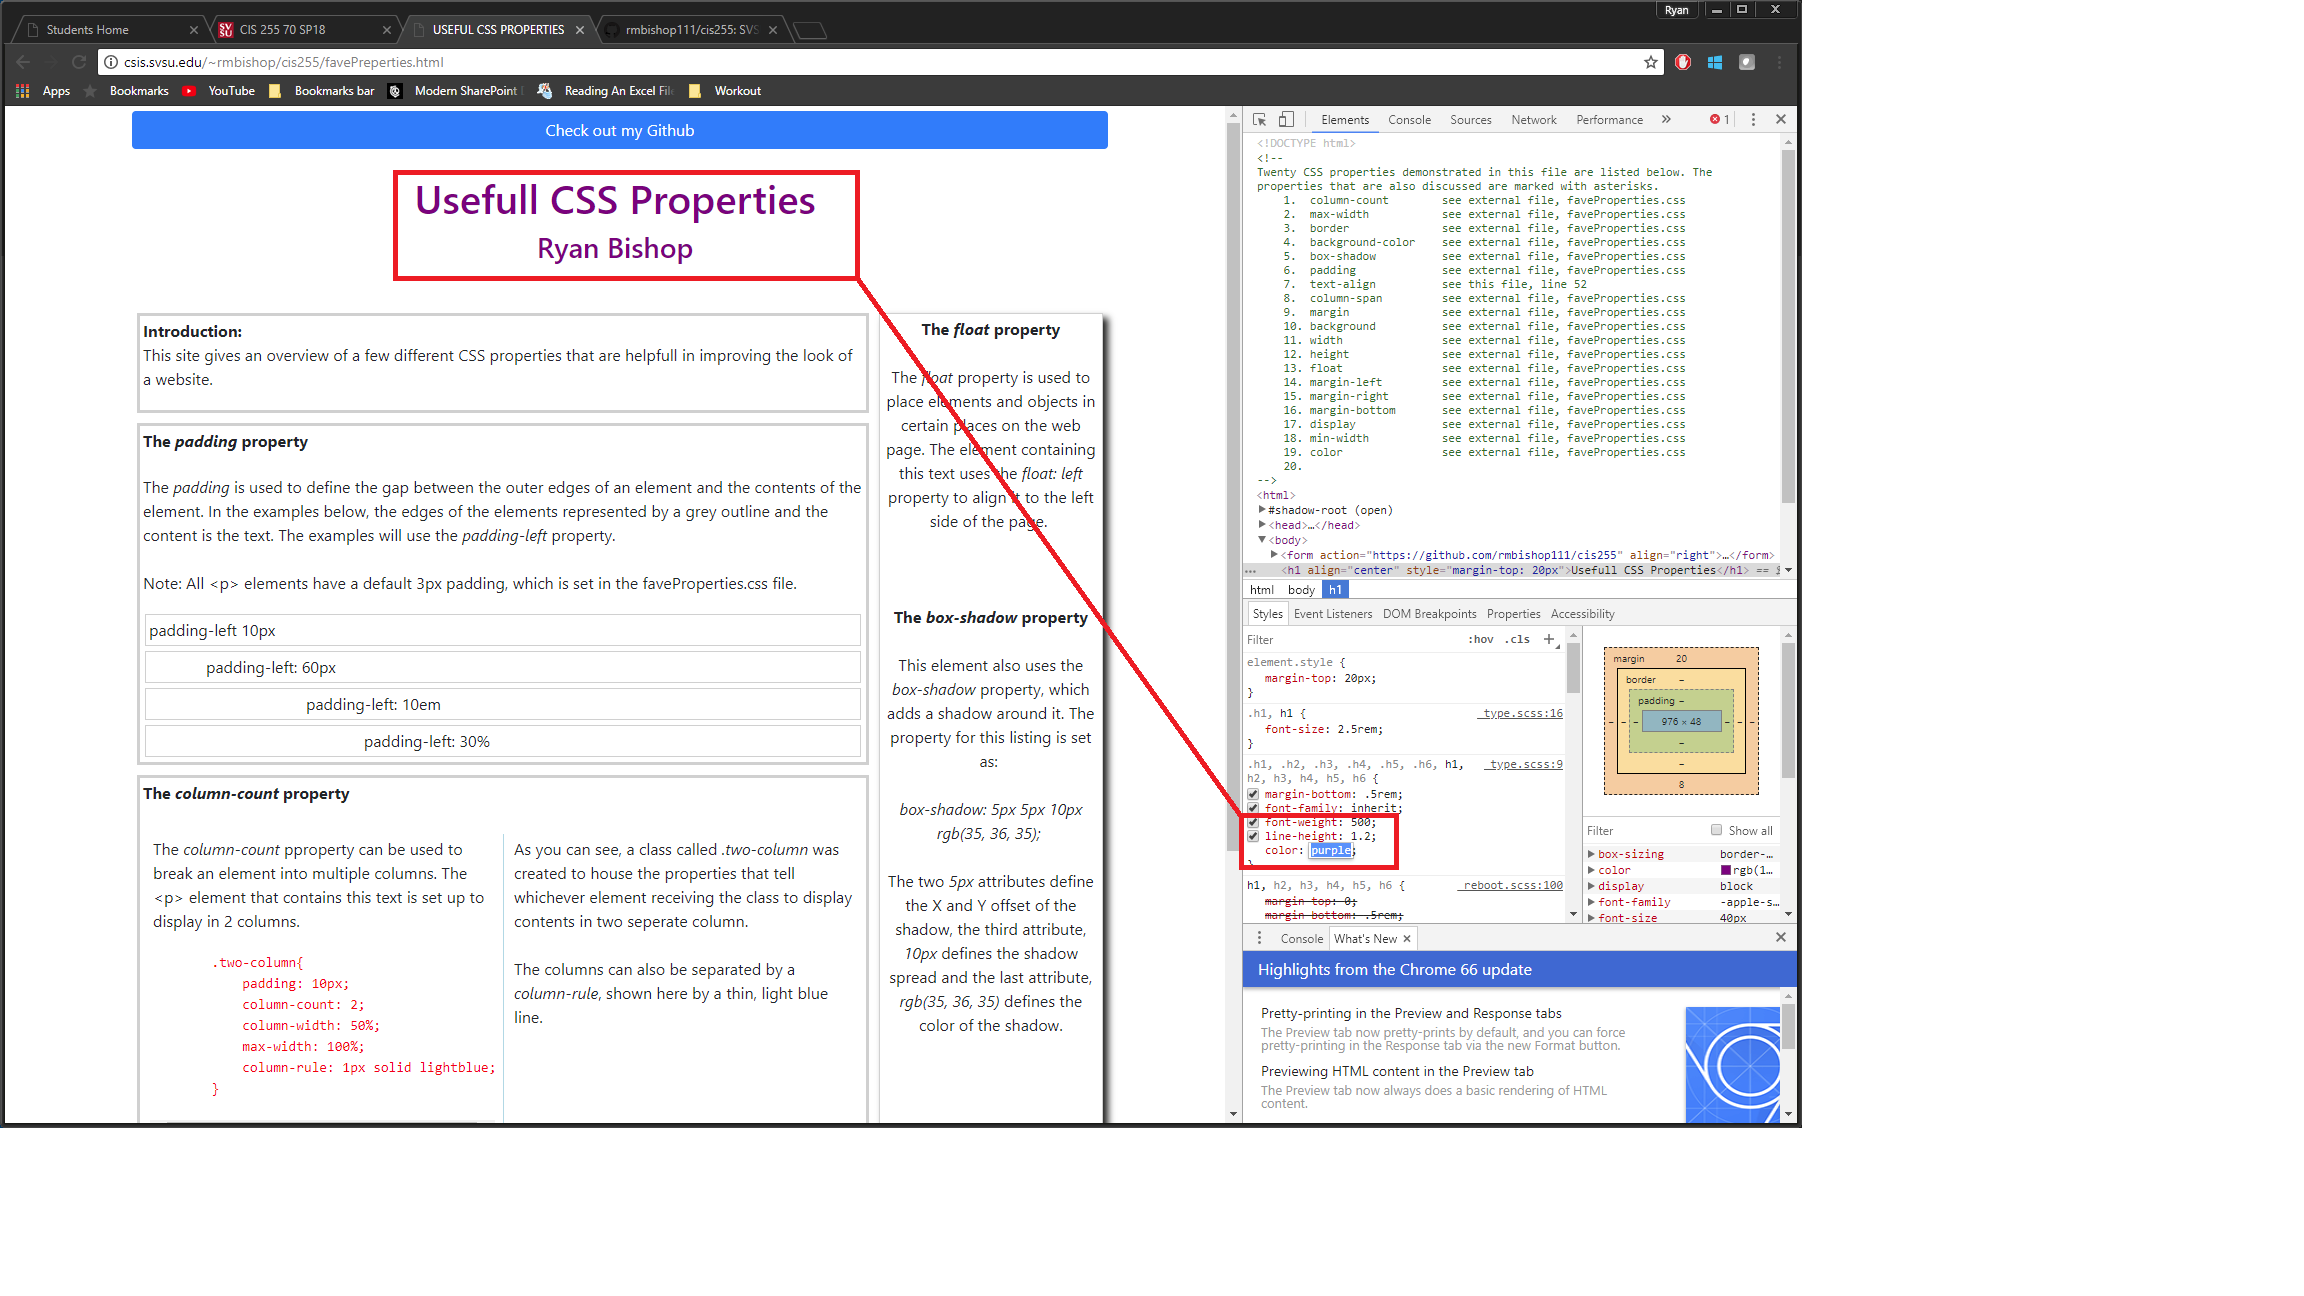
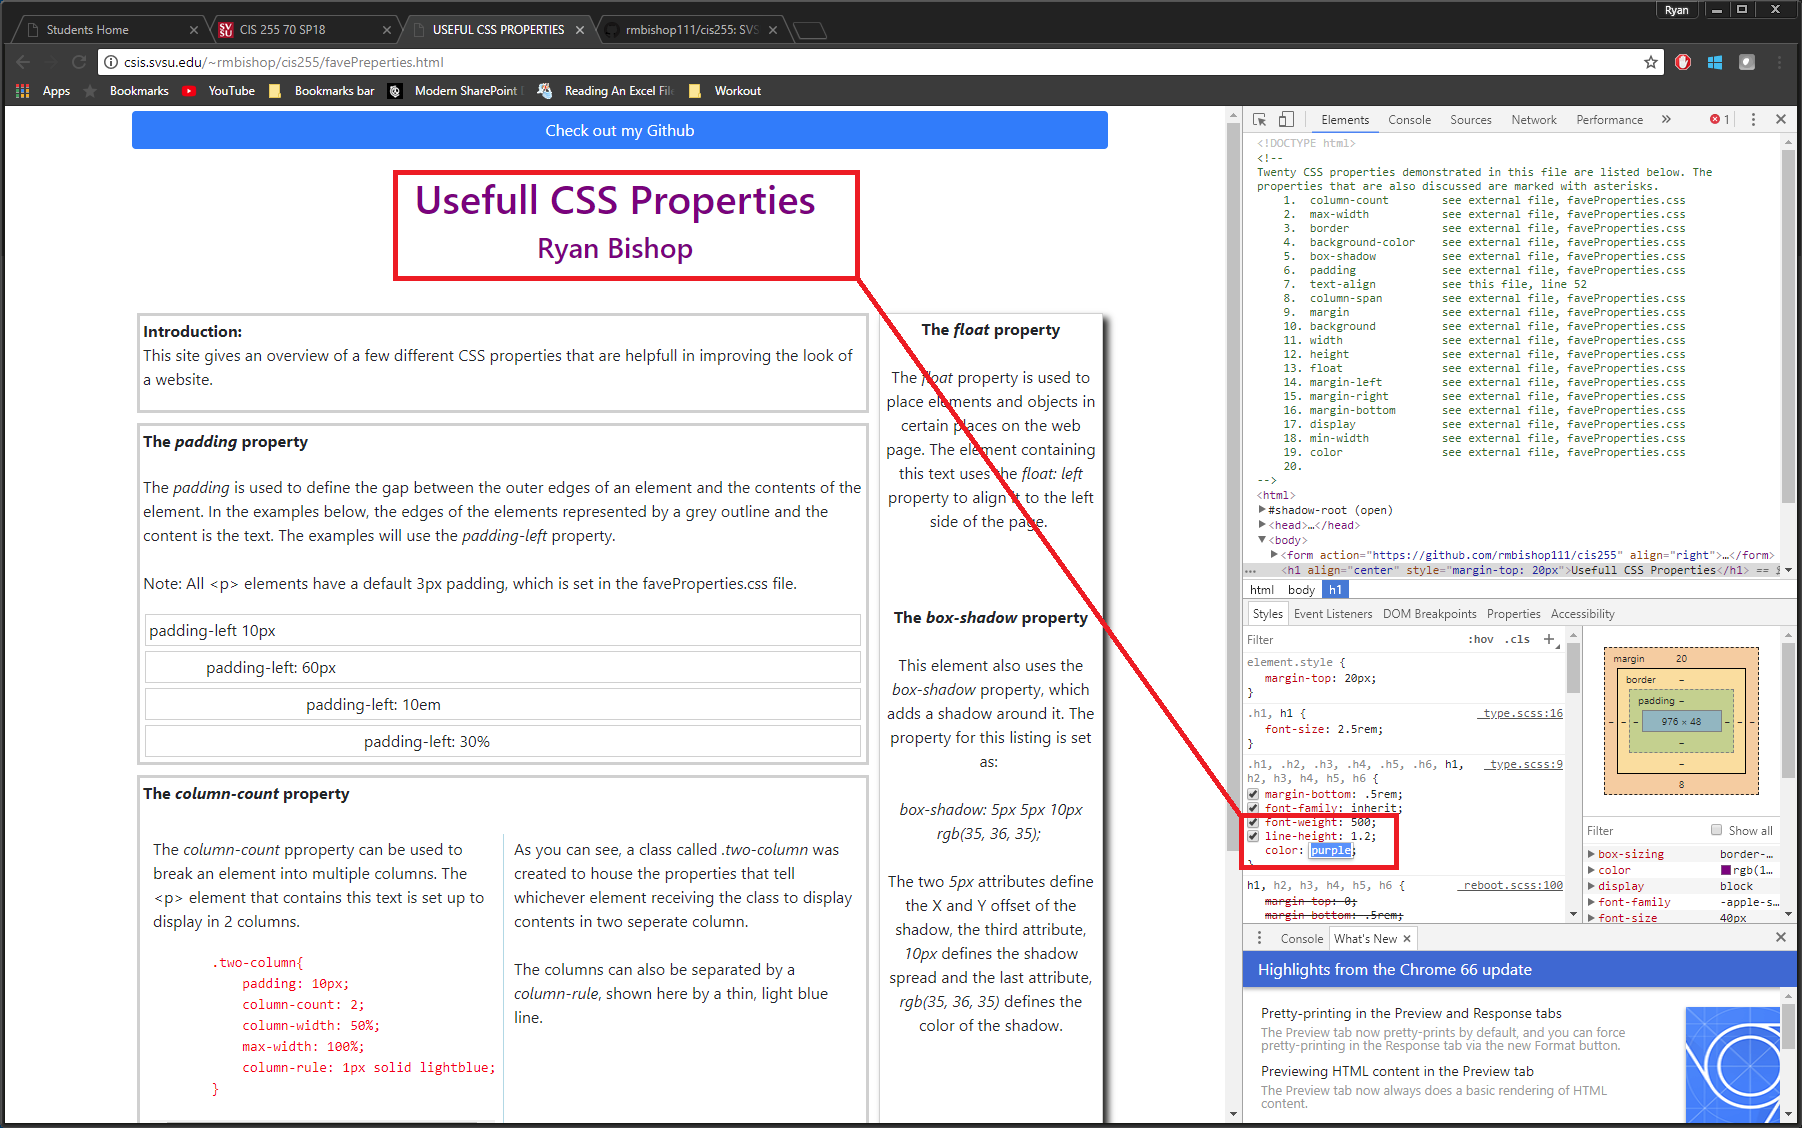
img Update

Changed region(s): [[0.0, 0.0, 1.0, 1.0], [0.2173, 0.9284, 0.2794, 0.9593]]

diff --git a/faveProperties.html b/faveProperties.html
@@ -39,6 +39,8 @@ Twenty CSS properties demonstrated in this file are listed below. The properties
         crossorigin="anonymous"></script>
     <link rel="stylesheet" type="text/css" media="screen" href="main.css" />
     <link rel="stylesheet" type="text/css" href="faveProperties.css" />
+
+
 </head>
 
 <body>
@@ -132,7 +134,13 @@ Twenty CSS properties demonstrated in this file are listed below. The properties
                                 The two <i>5px</i> attributes define the X and Y offset of the shadow, the third attribute, <i>10px</i> defines the shadow spread and the last attribute, <i>rgb(35, 36, 35)</i> defines the color of the shadow.
                                 </p>
                         </div>
+
+                        
+                            <img style="width: 100%" src="purpleHeading.png" />
+                        
         </div>
+
+       
 
     </body>
 
